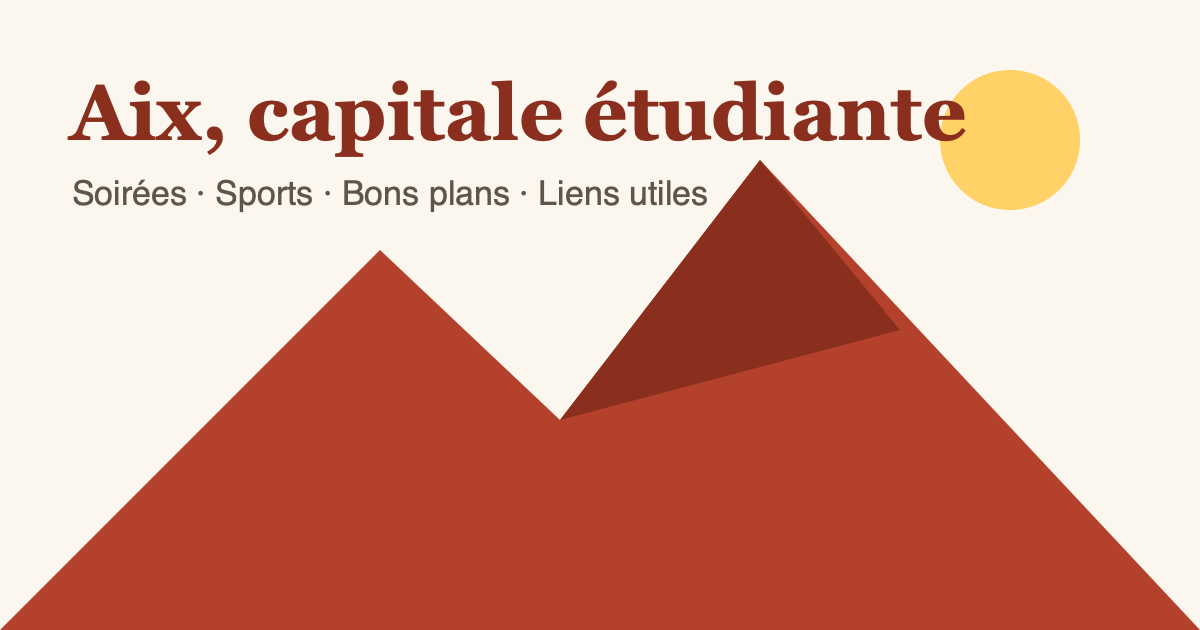
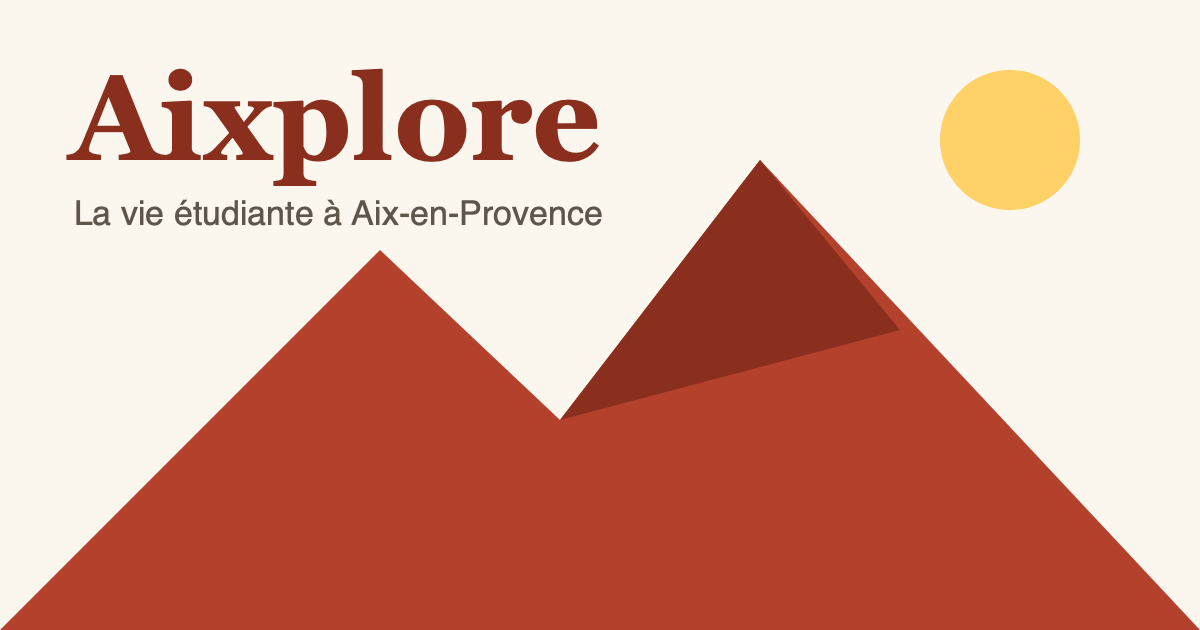
Le site s'appelle désormais Aixplore

Changed region(s): [[0.0617, 0.0905, 0.8017, 0.3619]]

diff --git a/index.html b/index.html
@@ -3,10 +3,10 @@
 <head>
     <meta charset="utf-8">
     <meta name="viewport" content="width=device-width, initial-scale=1">
-    <title>Aix, capitale étudiante – Le guide de la vie étudiante à Aix-en-Provence</title>
+    <title>Aixplore – Le guide de la vie étudiante à Aix-en-Provence</title>
     <!-- SEO: description shown in search results -->
     <meta name="description" content="Le guide de la vie étudiante à Aix-en-Provence : soirées, sports, bons plans et liens utiles, rédigé par des étudiants de l'IUT d'Aix-Marseille.">
-    <meta name="author" content="Équipe Aix, capitale étudiante">
+    <meta name="author" content="Équipe Aixplore">
     <meta name="theme-color" content="#b3412b">
     <link rel="canonical" href="https://paul13001.github.io/aix-capitale-etudiante/">
     <!-- Local SEO: default location = IUT computer science department -->
@@ -17,8 +17,8 @@
     <!-- Social networks (Open Graph + Twitter card) -->
     <meta property="og:type" content="website">
     <meta property="og:locale" content="fr_FR">
-    <meta property="og:site_name" content="Aix, capitale étudiante">
-    <meta property="og:title" content="Aix, capitale étudiante">
+    <meta property="og:site_name" content="Aixplore">
+    <meta property="og:title" content="Aixplore – la vie étudiante à Aix-en-Provence">
     <meta property="og:description" content="Soirées, sports, bons plans et liens utiles pour bien vivre ses études à Aix-en-Provence.">
     <meta property="og:url" content="https://paul13001.github.io/aix-capitale-etudiante/">
     <meta property="og:image" content="https://paul13001.github.io/aix-capitale-etudiante/assets/img/share.png">
@@ -35,7 +35,7 @@
     {
         "@context": "https://schema.org",
         "@type": "WebSite",
-        "name": "Aix, capitale étudiante",
+        "name": "Aixplore",
         "url": "https://paul13001.github.io/aix-capitale-etudiante/",
         "inLanguage": "fr",
         "publisher": {
@@ -60,9 +60,9 @@
     <!-- ===== Header and main menu (same on every page) ===== -->
     <header class="site-header">
         <div class="header-inner">
-            <a class="brand" href="index.html" aria-label="Aix, capitale étudiante – accueil">
+            <a class="brand" href="index.html" aria-label="Aixplore – accueil">
                 <img src="assets/img/favicon.svg" alt="" width="36" height="36">
-                <span>Aix, capitale étudiante</span>
+                <span>Aixplore</span>
             </a>
             <button class="menu-toggle" type="button" aria-expanded="false" aria-controls="main-nav">Menu</button>
             <nav id="main-nav" class="main-nav" aria-label="Menu principal">
@@ -81,8 +81,8 @@
     <main id="main">
         <!-- ===== Hero ===== -->
         <section class="hero" aria-labelledby="hero-title">
-            <h1 id="hero-title">Aix, capitale étudiante</h1>
-            <p class="lead">44 000 étudiants, une vieille ville faite pour flâner et la Sainte-Victoire à l'horizon. Voici notre guide pour profiter d'Aix-en-Provence pendant vos études.</p>
+            <h1 id="hero-title">Aixplore</h1>
+            <p class="lead">Le guide de la vie étudiante à Aix-en-Provence. 44 000 étudiants, une vieille ville faite pour flâner et la Sainte-Victoire à l'horizon. Explorez la ville comme ceux qui y vivent.</p>
             <p><a class="button" href="#video">Voir la vidéo</a> <a class="button button-ghost" href="#feedback">Donner mon avis</a></p>
         </section>
 

diff --git a/links.html b/links.html
@@ -3,7 +3,7 @@
 <head>
     <meta charset="utf-8">
     <meta name="viewport" content="width=device-width, initial-scale=1">
-    <title>Liens utiles pour les étudiants d'Aix-en-Provence – Aix, capitale étudiante</title>
+    <title>Liens utiles pour les étudiants d'Aix-en-Provence – Aixplore</title>
     <meta name="description" content="Les sites officiels utiles aux étudiants d'Aix-en-Provence : Aix-Marseille Université, IUT, Crous, transports, sport et culture.">
     <meta name="theme-color" content="#b3412b">
     <link rel="canonical" href="https://paul13001.github.io/aix-capitale-etudiante/links.html">
@@ -11,7 +11,7 @@
     <meta name="geo.placename" content="Aix-en-Provence">
     <meta property="og:type" content="article">
     <meta property="og:locale" content="fr_FR">
-    <meta property="og:site_name" content="Aix, capitale étudiante">
+    <meta property="og:site_name" content="Aixplore">
     <meta property="og:title" content="Liens utiles pour les étudiants d'Aix-en-Provence">
     <meta property="og:description" content="Université, Crous, transports, sport et culture : les sites officiels à connaître.">
     <meta property="og:url" content="https://paul13001.github.io/aix-capitale-etudiante/links.html">
@@ -29,9 +29,9 @@
     <!-- ===== Header and main menu (same on every page) ===== -->
     <header class="site-header">
         <div class="header-inner">
-            <a class="brand" href="index.html" aria-label="Aix, capitale étudiante – accueil">
+            <a class="brand" href="index.html" aria-label="Aixplore – accueil">
                 <img src="assets/img/favicon.svg" alt="" width="36" height="36">
-                <span>Aix, capitale étudiante</span>
+                <span>Aixplore</span>
             </a>
             <button class="menu-toggle" type="button" aria-expanded="false" aria-controls="main-nav">Menu</button>
             <nav id="main-nav" class="main-nav" aria-label="Menu principal">

diff --git a/nightlife.html b/nightlife.html
@@ -3,7 +3,7 @@
 <head>
     <meta charset="utf-8">
     <meta name="viewport" content="width=device-width, initial-scale=1">
-    <title>Soirées étudiantes à Aix-en-Provence – Aix, capitale étudiante</title>
+    <title>Soirées étudiantes à Aix-en-Provence – Aixplore</title>
     <meta name="description" content="Où sortir le soir à Aix-en-Provence quand on est étudiant : places animées, concerts, cinéma, théâtre et conseils pour rentrer en sécurité.">
     <meta name="theme-color" content="#b3412b">
     <link rel="canonical" href="https://paul13001.github.io/aix-capitale-etudiante/nightlife.html">
@@ -11,7 +11,7 @@
     <meta name="geo.placename" content="Aix-en-Provence">
     <meta property="og:type" content="article">
     <meta property="og:locale" content="fr_FR">
-    <meta property="og:site_name" content="Aix, capitale étudiante">
+    <meta property="og:site_name" content="Aixplore">
     <meta property="og:title" content="Soirées étudiantes à Aix-en-Provence">
     <meta property="og:description" content="Places animées, concerts, cinéma et théâtre : le guide des sorties étudiantes à Aix.">
     <meta property="og:url" content="https://paul13001.github.io/aix-capitale-etudiante/nightlife.html">
@@ -29,9 +29,9 @@
     <!-- ===== Header and main menu (same on every page) ===== -->
     <header class="site-header">
         <div class="header-inner">
-            <a class="brand" href="index.html" aria-label="Aix, capitale étudiante – accueil">
+            <a class="brand" href="index.html" aria-label="Aixplore – accueil">
                 <img src="assets/img/favicon.svg" alt="" width="36" height="36">
-                <span>Aix, capitale étudiante</span>
+                <span>Aixplore</span>
             </a>
             <button class="menu-toggle" type="button" aria-expanded="false" aria-controls="main-nav">Menu</button>
             <nav id="main-nav" class="main-nav" aria-label="Menu principal">

diff --git a/sports.html b/sports.html
@@ -3,7 +3,7 @@
 <head>
     <meta charset="utf-8">
     <meta name="viewport" content="width=device-width, initial-scale=1">
-    <title>Faire du sport à Aix-en-Provence – Aix, capitale étudiante</title>
+    <title>Faire du sport à Aix-en-Provence – Aixplore</title>
     <meta name="description" content="Faire du sport quand on est étudiant à Aix-en-Provence : sport universitaire, piscines, course à pied, randonnée sur la Sainte-Victoire et matchs à voir.">
     <meta name="theme-color" content="#b3412b">
     <link rel="canonical" href="https://paul13001.github.io/aix-capitale-etudiante/sports.html">
@@ -11,7 +11,7 @@
     <meta name="geo.placename" content="Aix-en-Provence">
     <meta property="og:type" content="article">
     <meta property="og:locale" content="fr_FR">
-    <meta property="og:site_name" content="Aix, capitale étudiante">
+    <meta property="og:site_name" content="Aixplore">
     <meta property="og:title" content="Faire du sport à Aix-en-Provence">
     <meta property="og:description" content="Sport universitaire, piscines, course à pied et randonnée : bouger pendant ses études à Aix.">
     <meta property="og:url" content="https://paul13001.github.io/aix-capitale-etudiante/sports.html">
@@ -29,9 +29,9 @@
     <!-- ===== Header and main menu (same on every page) ===== -->
     <header class="site-header">
         <div class="header-inner">
-            <a class="brand" href="index.html" aria-label="Aix, capitale étudiante – accueil">
+            <a class="brand" href="index.html" aria-label="Aixplore – accueil">
                 <img src="assets/img/favicon.svg" alt="" width="36" height="36">
-                <span>Aix, capitale étudiante</span>
+                <span>Aixplore</span>
             </a>
             <button class="menu-toggle" type="button" aria-expanded="false" aria-controls="main-nav">Menu</button>
             <nav id="main-nav" class="main-nav" aria-label="Menu principal">

diff --git a/deals.html b/deals.html
@@ -3,7 +3,7 @@
 <head>
     <meta charset="utf-8">
     <meta name="viewport" content="width=device-width, initial-scale=1">
-    <title>Bons plans étudiants à Aix-en-Provence – Aix, capitale étudiante</title>
+    <title>Bons plans étudiants à Aix-en-Provence – Aixplore</title>
     <meta name="description" content="Les bons plans pour étudier à Aix-en-Provence avec un petit budget : logement, repas du Crous, transports, culture et aides financières.">
     <meta name="theme-color" content="#b3412b">
     <link rel="canonical" href="https://paul13001.github.io/aix-capitale-etudiante/deals.html">
@@ -11,7 +11,7 @@
     <meta name="geo.placename" content="Aix-en-Provence">
     <meta property="og:type" content="article">
     <meta property="og:locale" content="fr_FR">
-    <meta property="og:site_name" content="Aix, capitale étudiante">
+    <meta property="og:site_name" content="Aixplore">
     <meta property="og:title" content="Bons plans étudiants à Aix-en-Provence">
     <meta property="og:description" content="Logement, repas, transports et culture : vivre à Aix avec un budget étudiant.">
     <meta property="og:url" content="https://paul13001.github.io/aix-capitale-etudiante/deals.html">
@@ -29,9 +29,9 @@
     <!-- ===== Header and main menu (same on every page) ===== -->
     <header class="site-header">
         <div class="header-inner">
-            <a class="brand" href="index.html" aria-label="Aix, capitale étudiante – accueil">
+            <a class="brand" href="index.html" aria-label="Aixplore – accueil">
                 <img src="assets/img/favicon.svg" alt="" width="36" height="36">
-                <span>Aix, capitale étudiante</span>
+                <span>Aixplore</span>
             </a>
             <button class="menu-toggle" type="button" aria-expanded="false" aria-controls="main-nav">Menu</button>
             <nav id="main-nav" class="main-nav" aria-label="Menu principal">

diff --git a/assets/js/main.js b/assets/js/main.js
@@ -1,5 +1,5 @@
 /* ==========================================================================
-   Aix, capitale étudiante – main script (loaded on every page with "defer")
+   Aixplore – main script (loaded on every page with "defer")
    1. Style switch (swaps the stylesheet, choice remembered)
    2. Mobile menu
    3. Floating "back to top" link
@@ -133,7 +133,7 @@
             }
             var data = new FormData(form);
             var name = String(data.get("name")).trim();
-            var subject = "[Aix, capitale étudiante] Avis de " + name;
+            var subject = "[Aixplore] Avis de " + name;
             var body = [
                 "Nom : " + name,
                 "E-mail : " + data.get("email"),

diff --git a/assets/css/style.css b/assets/css/style.css
@@ -1,5 +1,5 @@
 /* ==========================================================================
-   Aix, capitale étudiante – default stylesheet ("Provence" theme)
+   Aixplore – default stylesheet ("Provence" theme)
    Light, warm colours (ochre, terracotta, olive), serif headings.
    Source file: edit this one, then run `node tools/minify-css.mjs`
    to regenerate style.min.css (the file actually loaded by the pages).

diff --git a/assets/css/alternate.css b/assets/css/alternate.css
@@ -1,5 +1,5 @@
 /* ==========================================================================
-   Aix, capitale étudiante – alternate stylesheet ("Nuit électrique" theme)
+   Aixplore – alternate stylesheet ("Nuit électrique" theme)
    As different as possible from the default one: dark background,
    neon yellow and cyan, monospace font, square corners, thick borders,
    vertical menu on the left on large screens.

diff --git a/README.md b/README.md
@@ -1,6 +1,6 @@
-# Aix, capitale étudiante
+# Aixplore
 
-Site statique (HTML, CSS, JavaScript, sans base de données) : guide de la vie étudiante à Aix-en-Provence.
+Anciennement « Aix, capitale étudiante ». Site statique (HTML, CSS, JavaScript, sans base de données) : guide de la vie étudiante à Aix-en-Provence.
 Projet « Développement d'interfaces Web » – IUT d'Aix-Marseille, 2026.
 
 ## Pages
